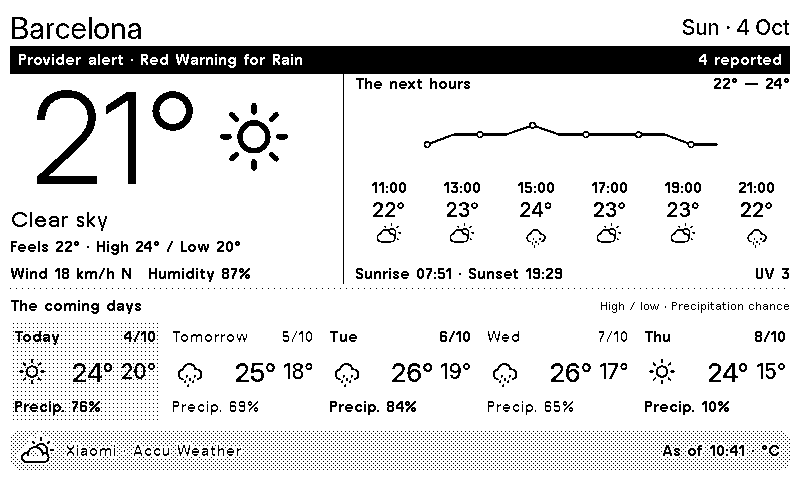
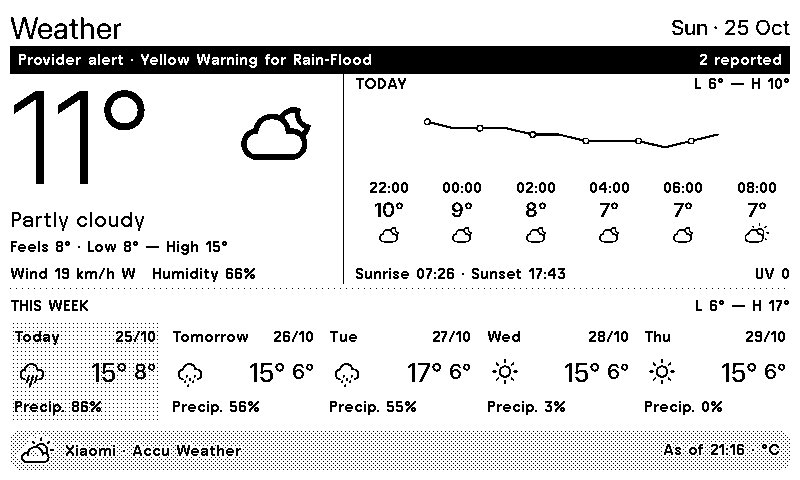
docs: regenerate plugin previews from current templates

diff --git a/TRMNL/README.md b/TRMNL/README.md
@@ -12,7 +12,7 @@ The plugin listing icon uses the supplied sun-and-cloud artwork, simplified to o
 
 ## Previews
 
-Previews use a recorded Barcelona response from **4 October 2026**, not a current forecast. These four OG layout previews use a 1-bit palette.
+Previews are freshly rendered from this plugin’s templates and Serverless transform with a recorded response for the public Paris demo point (`48.8584,2.2945`), observed **25 October 2026 at 21:16 CET**. They are not a current forecast. All four use Framework **3.4.0** and the OG 1-bit palette; partial layouts are cropped to their native view.
 
 | Full View | Half Horizontal View |
 |------------|----------------------|

diff --git a/README.md b/README.md
@@ -8,7 +8,7 @@ Current conditions and forecasts on your TRMNL, using the same weather endpoint 
 
 ![Current weather, hourly temperatures and daily forecasts on TRMNL](TRMNL/media/preview_full.webp)
 
-Recorded Barcelona weather from 4 October 2026, not a current forecast. [All layout previews](TRMNL/README.md#previews).
+Recorded weather for the public Paris demo point (`48.8584,2.2945`) from 25 October 2026, not a current forecast. [All layout previews](TRMNL/README.md#previews).
 
 ## Settings
 
